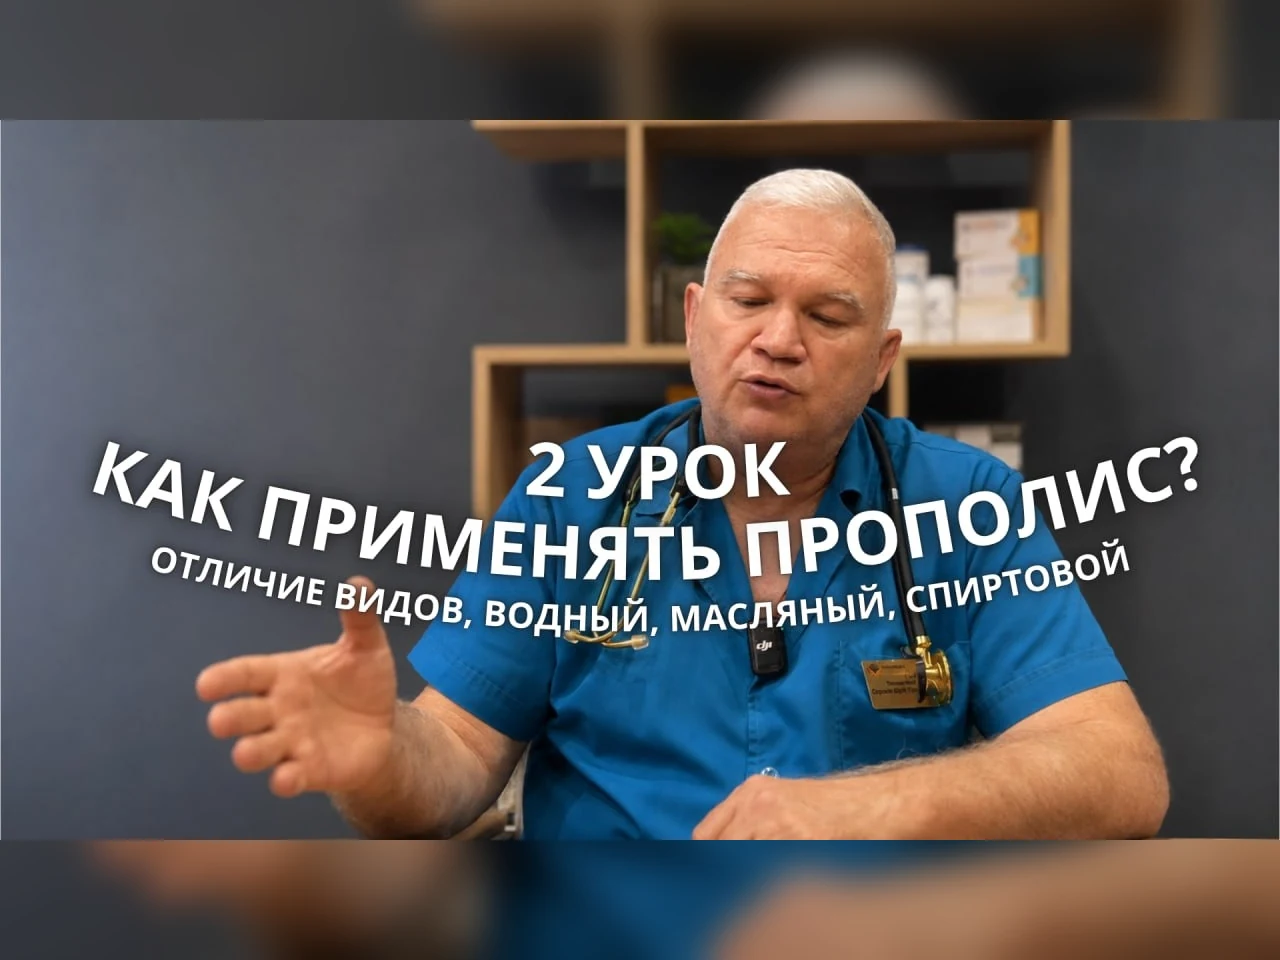
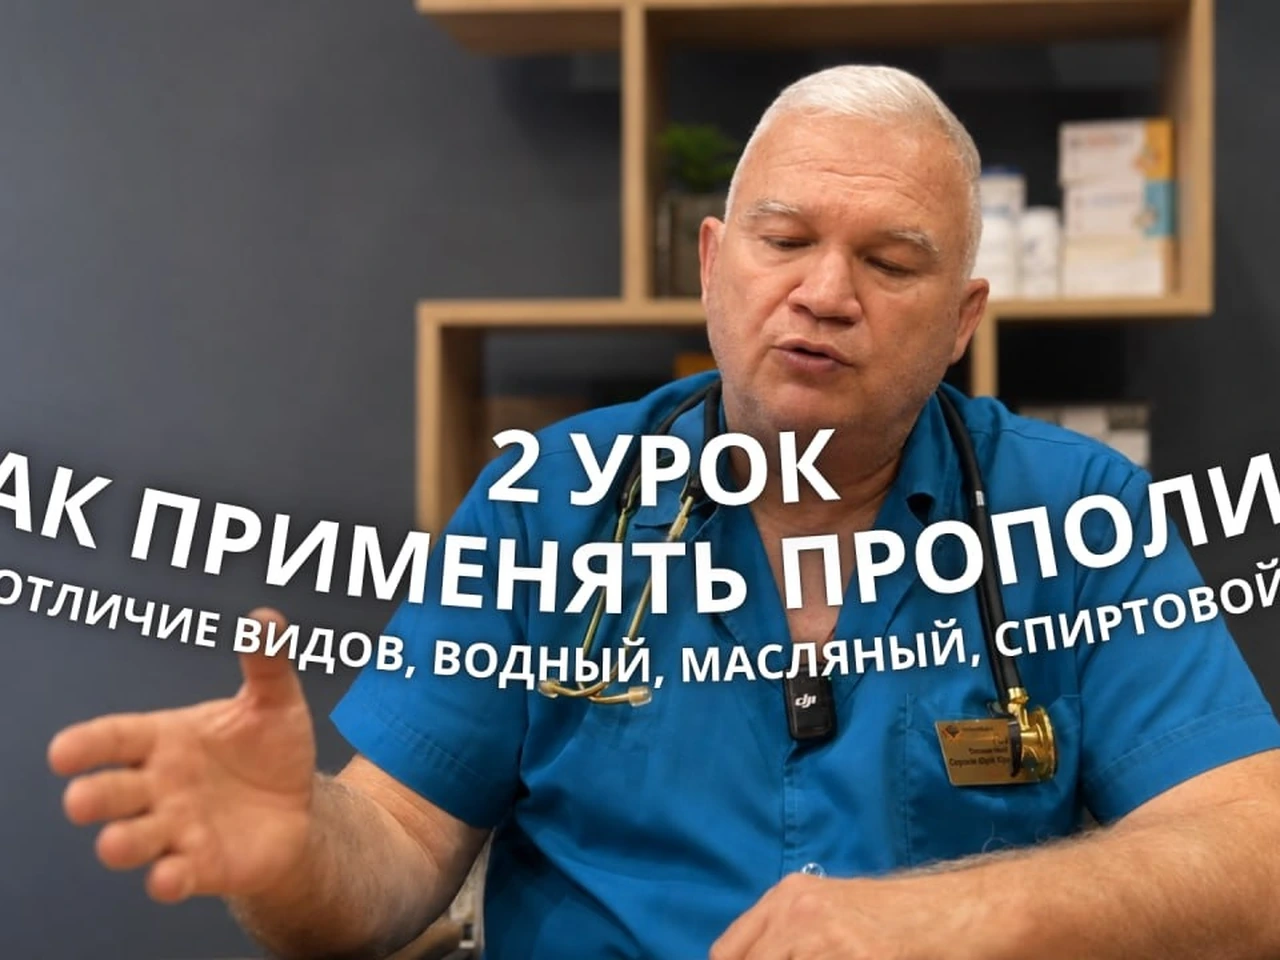
Remove blur from lesson images

diff --git a/index.html b/index.html
@@ -182,7 +182,7 @@
           </div>
           <div class="program-grid">
             <article class="lesson-card reveal">
-              <img loading="lazy" decoding="async" src="assets/images/course/lesson-1-propolis.webp?v=20260605-1" alt="Доктор за столом с обложкой «1 урок: Что такое прополис? + интересные факты»" width="1280" height="960">
+              <img loading="lazy" decoding="async" src="assets/images/course/lesson-1-propolis.webp?v=20260605-2" alt="Доктор за столом с обложкой «1 урок: Что такое прополис? + интересные факты»" width="1280" height="960">
               <div>
                 <span>Урок 1</span>
                 <h3>Прополис: состав и свойства</h3>
@@ -190,7 +190,7 @@
               </div>
             </article>
             <article class="lesson-card reveal">
-              <img loading="lazy" decoding="async" src="assets/images/course/lesson-2-notebook.webp?v=20260605-1" alt="Доктор за столом с обложкой «2 урок: Как применять прополис? Отличие видов, водный, масляный, спиртовой»" width="1280" height="960">
+              <img loading="lazy" decoding="async" src="assets/images/course/lesson-2-notebook.webp?v=20260605-2" alt="Доктор за столом с обложкой «2 урок: Как применять прополис? Отличие видов, водный, масляный, спиртовой»" width="1280" height="960">
               <div>
                 <span>Урок 2</span>
                 <h3>Водный экстракт прополиса</h3>
@@ -198,7 +198,7 @@
               </div>
             </article>
             <article class="lesson-card reveal">
-              <img loading="lazy" decoding="async" src="assets/images/course/lesson-3-extract.webp?v=20260605-1" alt="Доктор за столом с обложкой «3 урок: Готовая схема приема при ОРВИ, хеликобактере, гастрите»" width="1280" height="960">
+              <img loading="lazy" decoding="async" src="assets/images/course/lesson-3-extract.webp?v=20260605-2" alt="Доктор за столом с обложкой «3 урок: Готовая схема приема при ОРВИ, хеликобактере, гастрите»" width="1280" height="960">
               <div>
                 <span>Урок 3</span>
                 <h3>Ответственное применение</h3>
